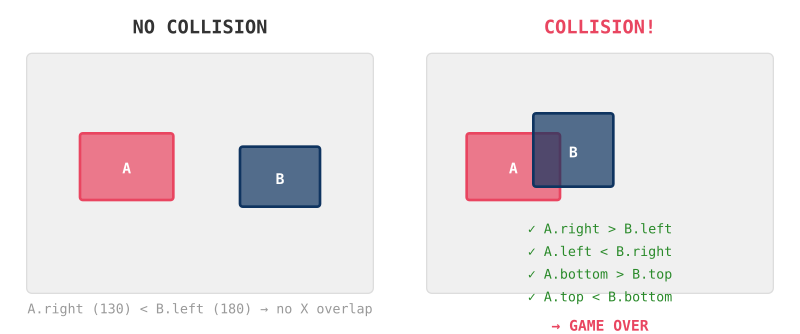
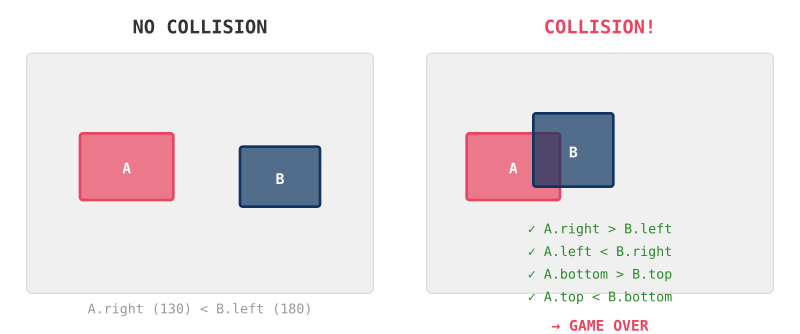
changed readme

Changed region(s): [[0.0312, 0.8982, 0.4688, 0.9581]]

diff --git a/index.html b/index.html
@@ -23,7 +23,6 @@
 const canvas = document.getElementById('game');
 const ctx = canvas.getContext('2d');
 
-// Responsive sizing
 function resize() {
   const w = Math.min(window.innerWidth, 800);
   const h = w * 0.5;
@@ -33,23 +32,16 @@ function resize() {
 window.addEventListener('resize', resize);
 resize();
 
-// Game state
 let GROUND_Y, player, obstacles, spawnTimer, spawnInterval, gameSpeed;
 let score, highScore, gameOver, lastTime;
-let sunVisible = true;  // always on
+let sunVisible = true;
 
 const GRAVITY = 1800;
 const JUMP_FORCE = -620;
 
 function init() {
   GROUND_Y = canvas.height - 60;
-  player = {
-    x: canvas.width * 0.12,
-    y: GROUND_Y - 50,
-    w: 50, h: 50,
-    vy: 0,
-    jumping: false
-  };
+  player = { x: canvas.width * 0.12, y: GROUND_Y - 50, w: 50, h: 50, vy: 0, jumping: false };
   obstacles = [];
   spawnTimer = 0;
   spawnInterval = 1.6;
@@ -64,26 +56,18 @@ window.addEventListener('resize', () => { resize(); init(); });
 
 function spawnObstacle() {
   const h = 25 + Math.random() * 45;
-  const type = Math.random() < 0.5 ? 'spike' : 'block';  // 50/50
-  
-  obstacles.push({
-    x: canvas.width,
-    y: GROUND_Y - h,
-    w: type === 'spike' ? 18 : 24,
-    h: h,
-    type: type,
-    spikeCount: Math.floor(Math.random() * 3) + 1
-  });
+  const type = Math.random() < 0.5 ? 'spike' : 'block';
+  obstacles.push({ x: canvas.width, y: GROUND_Y - h,
+    w: type === 'spike' ? 18 : 24, h: h, type: type,
+    spikeCount: Math.floor(Math.random() * 3) + 1 });
 }
 
 function collides(a, b) {
-  return a.x < b.x + b.w && a.x + a.w > b.x &&
-         a.y < b.y + b.h && a.y + a.h > b.y;
+  return a.x < b.x + b.w && a.x + a.w > b.x && a.y < b.y + b.h && a.y + a.h > b.y;
 }
 
 function resetGame() {
-  gameOver = false; score = 0;
-  obstacles = []; spawnTimer = 0; gameSpeed = 350;
+  gameOver = false; score = 0; obstacles = []; spawnTimer = 0; gameSpeed = 350;
   player.y = GROUND_Y - player.h; player.vy = 0; player.jumping = false;
 }
 
@@ -96,232 +80,123 @@ function gameLoop(timestamp) {
   if (!gameOver) {
     score += dt * 10;
     gameSpeed = 350 + score * 0.6;
-
     if (player.jumping) {
       player.vy += GRAVITY * dt;
       player.y += player.vy * dt;
       if (player.y >= GROUND_Y - player.h) {
         player.y = GROUND_Y - player.h;
-        player.jumping = false;
-        player.vy = 0;
+        player.jumping = false; player.vy = 0;
       }
     }
-
     spawnTimer += dt;
     if (spawnTimer >= spawnInterval) {
       spawnTimer = 0;
       spawnInterval = 0.6 + Math.random() * 1.2;
       spawnObstacle();
     }
-
     for (let i = obstacles.length - 1; i >= 0; i--) {
       obstacles[i].x -= gameSpeed * dt;
-      if (obstacles[i].x + obstacles[i].w < 0) {
-        obstacles.splice(i, 1);
-      } else if (collides(player, obstacles[i])) {
+      if (obstacles[i].x + obstacles[i].w < 0) obstacles.splice(i, 1);
+      else if (collides(player, obstacles[i])) {
         gameOver = true;
         if (score > highScore) highScore = score;
       }
     }
   }
-
   draw();
   requestAnimationFrame(gameLoop);
 }
 
-function drawSpikeObstacle(x, baseY, height, width, spikeCount) {
-  // Pure ground spikes — triangles growing from the ground, no block base
-  const spikeW = width / spikeCount;
-  
-  for (let s = 0; s < spikeCount; s++) {
-    const sx = x + s * spikeW;
-    const topY = baseY - height;
-    
-    // Spike fill
-    ctx.fillStyle = '#16213e';
-    ctx.beginPath();
-    ctx.moveTo(sx, baseY);
-    ctx.lineTo(sx + spikeW / 2, topY);
-    ctx.lineTo(sx + spikeW, baseY);
-    ctx.closePath();
-    ctx.fill();
-    
-    // Spike outline
-    ctx.strokeStyle = '#0a1a3a';
-    ctx.lineWidth = 1;
-    ctx.stroke();
-    
-    // Small highlight on left edge
-    ctx.strokeStyle = '#2a4a6e';
-    ctx.lineWidth = 0.5;
-    ctx.beginPath();
-    ctx.moveTo(sx + 1, baseY - 2);
-    ctx.lineTo(sx + spikeW / 2, topY + 2);
-    ctx.stroke();
-  }
-}
-
-function drawBlockObstacle(x, baseY, height, width, spikeCount) {
-  // Blue base block on the ground with spikes on top
-  const baseH = height * 0.4;
-  
-  // Base block
-  ctx.fillStyle = '#0f3460';
-  ctx.fillRect(x, baseY - baseH, width, baseH);
-  
-  // Base outline
-  ctx.strokeStyle = '#0a1a3a';
-  ctx.lineWidth = 1;
-  ctx.strokeRect(x, baseY - baseH, width, baseH);
-  
-  // Spikes on top
-  const spikeBaseY = baseY - baseH;
-  const spikeTopY = baseY - height;
-  const spikeW = width / spikeCount;
-  
-  ctx.fillStyle = '#16213e';
-  for (let s = 0; s < spikeCount; s++) {
-    const sx = x + s * spikeW;
-    ctx.beginPath();
-    ctx.moveTo(sx, spikeBaseY);
-    ctx.lineTo(sx + spikeW / 2, spikeTopY);
-    ctx.lineTo(sx + spikeW, spikeBaseY);
-    ctx.closePath();
-    ctx.fill();
-    
-    ctx.strokeStyle = '#0a1a3a';
-    ctx.lineWidth = 1;
-    ctx.stroke();
-  }
-}
-
 function draw() {
-  // Sky
   ctx.fillStyle = '#87CEEB';
   ctx.fillRect(0, 0, canvas.width, canvas.height);
-
-  // Ground area
   ctx.fillStyle = '#c8a96e';
   ctx.fillRect(0, GROUND_Y, canvas.width, canvas.height - GROUND_Y);
-  
-  // Ground line
-  ctx.strokeStyle = '#8B7355';
-  ctx.lineWidth = 3;
-  ctx.beginPath();
-  ctx.moveTo(0, GROUND_Y);
-  ctx.lineTo(canvas.width, GROUND_Y);
-  ctx.stroke();
-
-  // Sun
-  if (sunVisible) {
-    const sunX = canvas.width * 0.82;
-    const sunY = canvas.height * 0.18;
-    const sunR = canvas.width * 0.06;
-    
-    ctx.fillStyle = 'rgba(255, 220, 100, 0.3)';
-    ctx.beginPath();
-    ctx.arc(sunX, sunY, sunR * 1.8, 0, Math.PI * 2);
-    ctx.fill();
-    
-    ctx.fillStyle = '#FFD93D';
-    ctx.beginPath();
-    ctx.arc(sunX, sunY, sunR, 0, Math.PI * 2);
-    ctx.fill();
-    
-    ctx.strokeStyle = '#FFD93D';
-    ctx.lineWidth = 2;
-    for (let i = 0; i < 8; i++) {
-      const angle = (i / 8) * Math.PI * 2;
-      ctx.beginPath();
-      ctx.moveTo(sunX + Math.cos(angle) * (sunR + 3), sunY + Math.sin(angle) * (sunR + 3));
-      ctx.lineTo(sunX + Math.cos(angle) * (sunR * 1.5), sunY + Math.sin(angle) * (sunR * 1.5));
-      ctx.stroke();
-    }
-  }
-
-  // Clouds
-  ctx.fillStyle = 'rgba(255,255,255,0.6)';
-  const cloudBase = (Date.now() / 20000) % (canvas.width + 100) - 50;
-  drawCloud(cloudBase, canvas.height * 0.12, 0.4);
-  drawCloud(cloudBase + canvas.width * 0.5, canvas.height * 0.22, 0.3);
-
-  // Ground dots
+  ctx.strokeStyle = '#8B7355'; ctx.lineWidth = 3;
+  ctx.beginPath(); ctx.moveTo(0, GROUND_Y); ctx.lineTo(canvas.width, GROUND_Y); ctx.stroke();
   ctx.fillStyle = '#5a4a3a';
   const dotOffset = (Date.now() / 10) % 30;
-  for (let x = -30 + dotOffset; x < canvas.width + 30; x += 30) {
-    ctx.fillRect(x, GROUND_Y + 3, 10, 3);
+  for (let x = -30 + dotOffset; x < canvas.width + 30; x += 30) ctx.fillRect(x, GROUND_Y + 3, 10, 3);
+
+  const sunX = canvas.width * 0.82, sunY = canvas.height * 0.18, sunR = canvas.width * 0.06;
+  ctx.fillStyle = 'rgba(255,220,100,0.3)';
+  ctx.beginPath(); ctx.arc(sunX, sunY, sunR * 1.8, 0, Math.PI * 2); ctx.fill();
+  ctx.fillStyle = '#FFD93D';
+  ctx.beginPath(); ctx.arc(sunX, sunY, sunR, 0, Math.PI * 2); ctx.fill();
+  ctx.strokeStyle = '#FFD93D'; ctx.lineWidth = 2;
+  for (let i = 0; i < 8; i++) {
+    const a = (i/8)*Math.PI*2;
+    ctx.beginPath();
+    ctx.moveTo(sunX+Math.cos(a)*(sunR+3), sunY+Math.sin(a)*(sunR+3));
+    ctx.lineTo(sunX+Math.cos(a)*(sunR*1.5), sunY+Math.sin(a)*(sunR*1.5));
+    ctx.stroke();
   }
 
-  // Player
-  ctx.fillStyle = '#e94560';
-  ctx.fillRect(player.x, player.y, player.w, player.h);
-  ctx.fillStyle = '#fff';
-  ctx.fillRect(player.x + 10, player.y + 12, 12, 12);
-  ctx.fillRect(player.x + 28, player.y + 12, 12, 12);
-  ctx.fillStyle = '#1a1a2e';
-  ctx.fillRect(player.x + 15, player.y + 17, 6, 6);
-  ctx.fillRect(player.x + 33, player.y + 17, 6, 6);
+  ctx.fillStyle = 'rgba(255,255,255,0.6)';
+  const cb = (Date.now()/20000) % (canvas.width+100)-50;
+  [cb, cb+canvas.width*0.5].forEach((cx,i) => {
+    const cy = canvas.height*(0.12+i*0.1), sc = 0.4-i*0.1;
+    ctx.save(); ctx.translate(cx,cy); ctx.scale(sc,sc);
+    ctx.beginPath();
+    ctx.arc(0,0,25,0,Math.PI*2); ctx.arc(25,-5,20,0,Math.PI*2);
+    ctx.arc(50,0,25,0,Math.PI*2); ctx.arc(20,8,18,0,Math.PI*2);
+    ctx.arc(35,5,22,0,Math.PI*2); ctx.fill(); ctx.restore();
+  });
 
-  // Obstacles
+  ctx.fillStyle = '#e94560'; ctx.fillRect(player.x, player.y, player.w, player.h);
+  ctx.fillStyle = '#fff';
+  ctx.fillRect(player.x+10, player.y+12, 12, 12); ctx.fillRect(player.x+28, player.y+12, 12, 12);
+  ctx.fillStyle = '#1a1a2e';
+  ctx.fillRect(player.x+15, player.y+17, 6, 6); ctx.fillRect(player.x+33, player.y+17, 6, 6);
+
   for (const obs of obstacles) {
     if (obs.type === 'spike') {
-      drawSpikeObstacle(obs.x, GROUND_Y, obs.h, obs.w, obs.spikeCount);
+      const sw = obs.w / obs.spikeCount;
+      for (let s = 0; s < obs.spikeCount; s++) {
+        const sx = obs.x + s * sw, topY = GROUND_Y - obs.h;
+        ctx.fillStyle = '#16213e';
+        ctx.beginPath(); ctx.moveTo(sx, GROUND_Y); ctx.lineTo(sx+sw/2, topY); ctx.lineTo(sx+sw, GROUND_Y);
+        ctx.closePath(); ctx.fill(); ctx.strokeStyle = '#0a1a3a'; ctx.stroke();
+      }
     } else {
-      drawBlockObstacle(obs.x, GROUND_Y, obs.h, obs.w, obs.spikeCount);
+      const bh = obs.h * 0.4;
+      ctx.fillStyle = '#0f3460'; ctx.fillRect(obs.x, GROUND_Y-bh, obs.w, bh);
+      ctx.strokeStyle = '#0a1a3a'; ctx.strokeRect(obs.x, GROUND_Y-bh, obs.w, bh);
+      const sw = obs.w / obs.spikeCount;
+      ctx.fillStyle = '#16213e';
+      for (let s = 0; s < obs.spikeCount; s++) {
+        const sx = obs.x + s * sw;
+        ctx.beginPath(); ctx.moveTo(sx, GROUND_Y-bh); ctx.lineTo(sx+sw/2, GROUND_Y-obs.h); ctx.lineTo(sx+sw, GROUND_Y-bh);
+        ctx.closePath(); ctx.fill(); ctx.strokeStyle = '#0a1a3a'; ctx.stroke();
+      }
     }
   }
 
-  // Score
-  ctx.fillStyle = '#333';
-  ctx.font = '18px "Courier New", monospace';
-  ctx.textAlign = 'start';
+  ctx.fillStyle = '#333'; ctx.font = '18px "Courier New", monospace'; ctx.textAlign = 'start';
   ctx.fillText('Score: ' + Math.floor(score), 15, 30);
   ctx.fillText('Best: ' + Math.floor(highScore), 15, 55);
 
-  // Game over
   if (gameOver) {
-    ctx.fillStyle = 'rgba(0,0,0,0.5)';
-    ctx.fillRect(0, 0, canvas.width, canvas.height);
+    ctx.fillStyle = 'rgba(0,0,0,0.5)'; ctx.fillRect(0, 0, canvas.width, canvas.height);
     ctx.fillStyle = '#e94560';
-    ctx.font = 'bold ' + Math.floor(canvas.width * 0.045) + 'px "Courier New", monospace';
+    ctx.font = 'bold ' + Math.floor(canvas.width*0.045) + 'px "Courier New", monospace';
     ctx.textAlign = 'center';
-    ctx.fillText('GAME OVER', canvas.width/2, canvas.height/2 - 15);
-    ctx.font = Math.floor(canvas.width * 0.025) + 'px "Courier New", monospace';
+    ctx.fillText('GAME OVER', canvas.width/2, canvas.height/2-15);
+    ctx.font = Math.floor(canvas.width*0.025) + 'px "Courier New", monospace';
     ctx.fillStyle = '#fff';
-    ctx.fillText('Tap or press SPACE', canvas.width/2, canvas.height/2 + 25);
+    ctx.fillText('Tap or press SPACE', canvas.width/2, canvas.height/2+25);
     ctx.textAlign = 'start';
   }
 }
 
-function drawCloud(x, y, scale) {
-  ctx.save();
-  ctx.translate(x, y);
-  ctx.scale(scale, scale);
-  ctx.beginPath();
-  ctx.arc(0, 0, 25, 0, Math.PI * 2);
-  ctx.arc(25, -5, 20, 0, Math.PI * 2);
-  ctx.arc(50, 0, 25, 0, Math.PI * 2);
-  ctx.arc(20, 8, 18, 0, Math.PI * 2);
-  ctx.arc(35, 5, 22, 0, Math.PI * 2);
-  ctx.fill();
-  ctx.restore();
-}
-
 function doAction() {
   if (gameOver) resetGame();
-  else if (!player.jumping) {
-    player.jumping = true;
-    player.vy = JUMP_FORCE;
-  }
+  else if (!player.jumping) { player.jumping = true; player.vy = JUMP_FORCE; }
 }
 
 document.addEventListener('keydown', e => {
-  if (e.code === 'Space' || e.code === 'ArrowUp') {
-    e.preventDefault();
-    doAction();
-  }
+  if (e.code === 'Space' || e.code === 'ArrowUp') { e.preventDefault(); doAction(); }
 });
-
 canvas.addEventListener('click', e => { e.preventDefault(); doAction(); });
 canvas.addEventListener('touchstart', e => { e.preventDefault(); doAction(); });
 